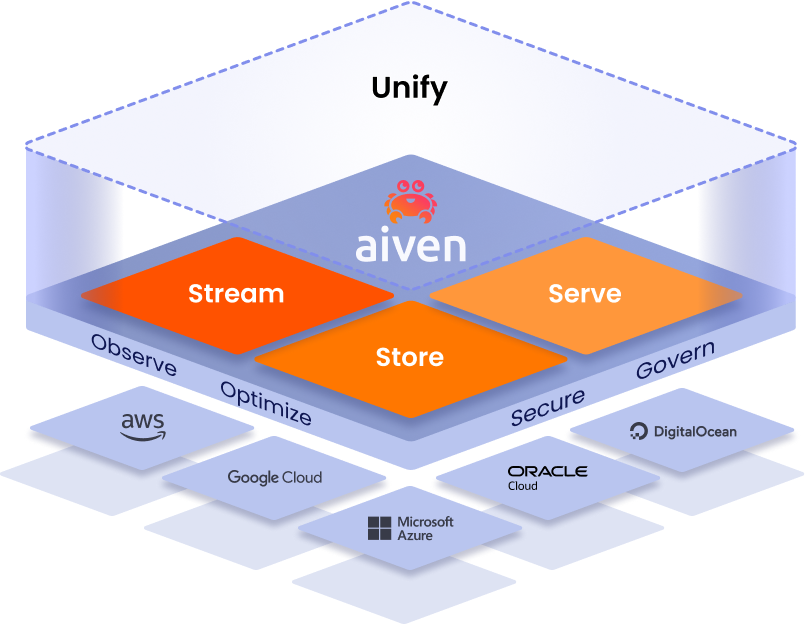
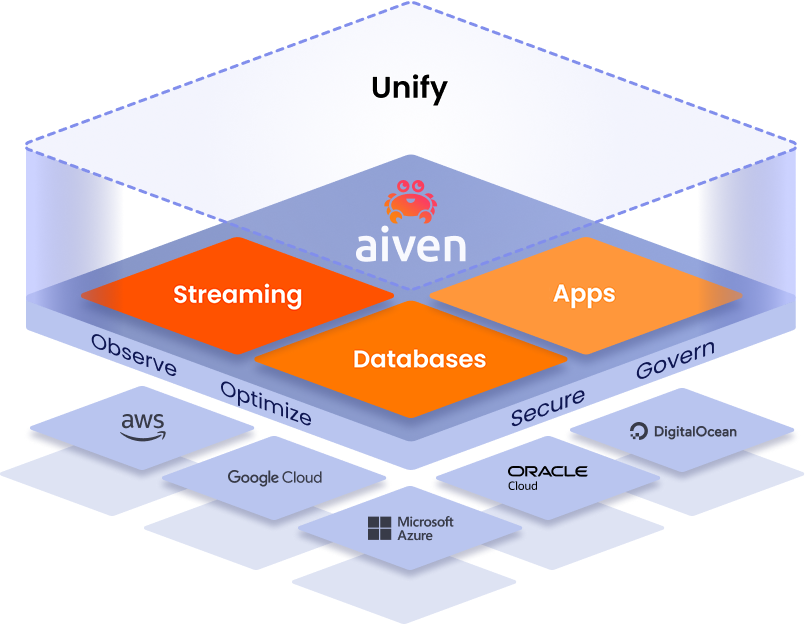
update: marketecture categorization

Changed region(s): [[0.4348, 0.5481, 0.6211, 0.609], [0.2174, 0.4567, 0.3727, 0.5176], [0.6832, 0.4567, 0.7764, 0.4872]]

diff --git a/docs/products/services.md b/docs/products/services.md
@@ -19,7 +19,7 @@ import AlloyDBOmni from "@site/static/images/logos/alloydbomni.svg";
 
 Use our fully managed services to stream, store, or serve your data. Deploy individual services and advanced data pipelines in minutes.
 
-## Stream
+## Streaming
 
 <GridContainer>
   <Card
@@ -36,7 +36,7 @@ Use our fully managed services to stream, store, or serve your data. Deploy indi
   />
 </GridContainer>
 
-## Store
+## Databases
 
 <GridContainer>
   <Card
@@ -77,7 +77,7 @@ Use our fully managed services to stream, store, or serve your data. Deploy indi
   />
 </GridContainer>
 
-## Serve
+## Apps
 
 <GridContainer>
   <Card
